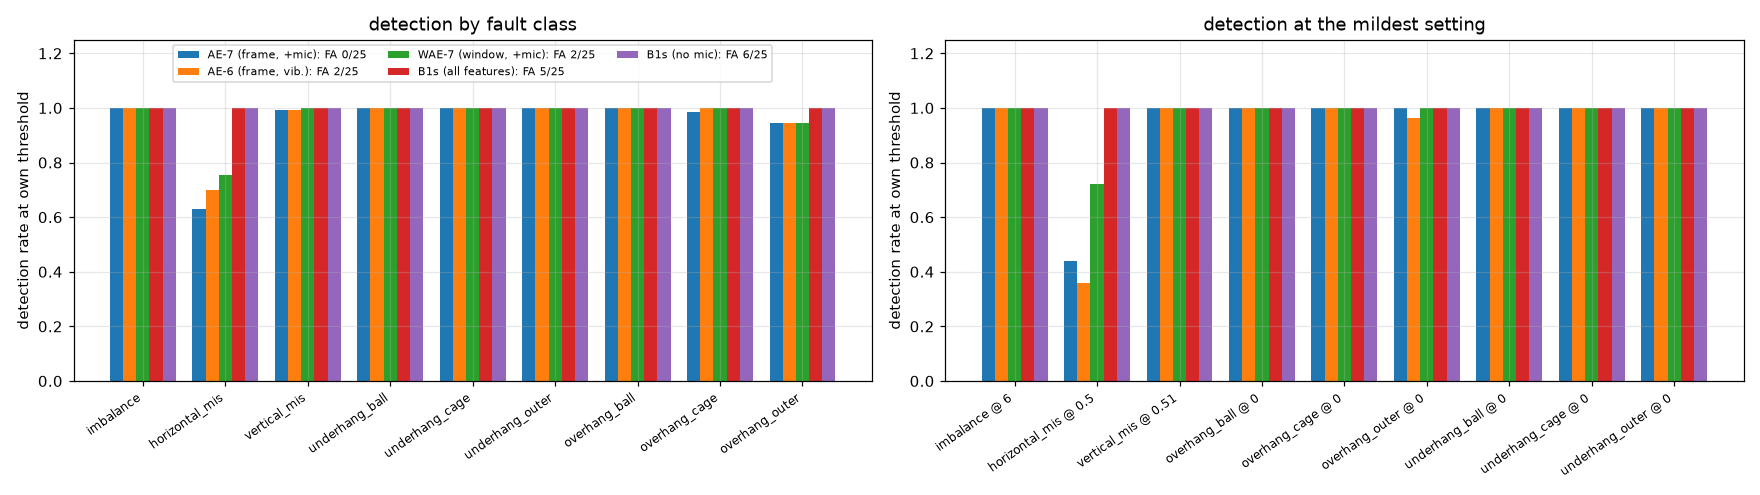
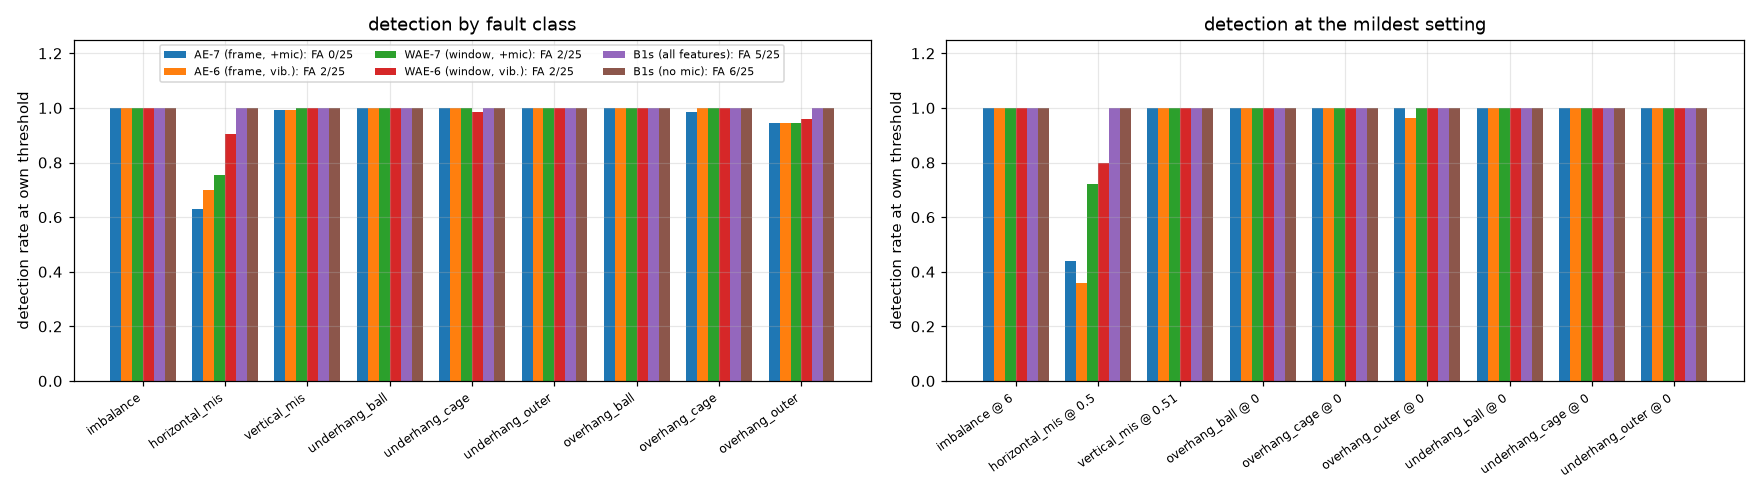
Correct the Stage 3B reporting and declare the Stage 3C protocol
Add WAE-6 to every autoencoder comparison; say 'similar observed separation to B1s;
equivalence is not established'; add the supplementary pooled AE - B1s differences with
paired mixed-unit bootstrap intervals (all include 0); read the sensor-evidence table as a
whole (89 % of fault recordings worst on an overhang channel: not usable as fault-location
evidence); record the app wording and the uninformative B1s/AE-7 alarm combination.
CLAUDE.md §7 declares the Stage 3C protocol, including AE-6 per withheld class and fold
because the saved Q3 assignment splits the normal folder differently per withheld class.

diff --git a/SystemCode/scripts/08_train_ae.py b/SystemCode/scripts/08_train_ae.py
@@ -32,6 +32,7 @@ import pandas as pd
 from sklearn.metrics import roc_auc_score
 
 from ml.config import Config, load_config
+from ml.evaluation import mixed_bootstrap_draws
 from ml.datasets import dev_window_rows, load_representation, norm_stats
 from ml.labels import CLASS10
 from ml.paths import DEFAULT_CONFIG, SYSTEM_CODE_DIR, RunPaths, artifacts_dir, data_dir, results_dir
@@ -230,6 +231,27 @@ def run_compare(cfg: Config, seed: int) -> None:
         t = s[s.role == "test"]
         pooled[name] = float(roc_auc_score((t.class10 != "normal").to_numpy(), t.score.to_numpy()))
     out["pooled_raw_score_auroc_supplementary"] = pooled
+    # Supplementary paired interval for the pooled difference: stratified mixed-unit bootstrap over the fold-k
+    # recordings (fault folders resampled within class, normal recordings individually), identical draws for both.
+    base = scores["b1s_all"]
+    base = base[base.role == "test"].set_index("rec_id").sort_index()
+    draws = mixed_bootstrap_draws(base.class10.to_numpy(), base.folder.to_numpy(), cfg.baselines.n_bootstrap,
+                                  cfg.baselines.seed)
+    y = (base.class10 != "normal").to_numpy()
+    paired = {}
+    for v in [v for v in VARIANTS if v in scores]:
+        b = B1S[v]
+        sa = scores[v][scores[v].role == "test"].set_index("rec_id").score.loc[base.index].to_numpy()
+        sb = scores[b][scores[b].role == "test"].set_index("rec_id").score.loc[base.index].to_numpy()
+        d = np.array([roc_auc_score(y[i], sa[i]) - roc_auc_score(y[i], sb[i]) for i in draws])
+        paired[f"{v}_minus_{b}"] = {"diff": pooled[v] - pooled[b], "ci": [float(np.percentile(d, 2.5)),
+                                                                          float(np.percentile(d, 97.5))],
+                                    "p_positive": float(np.mean(d > 0))}
+    out["pooled_paired_supplementary"] = {
+        "note": "SUPPLEMENTARY: pooled raw scores mix fold models with different score scales; the within-fold "
+                "differences remain primary. Stratified mixed-unit bootstrap (fault folders within class, normal "
+                "recordings individually), identical draws for both detectors.",
+        "n_bootstrap": cfg.baselines.n_bootstrap, "comparisons": paired}
     OUT.mkdir(parents=True, exist_ok=True)
     for v in [v for v in VARIANTS if v in scores]:
         s = scores[v]
@@ -257,6 +279,8 @@ def run_compare(cfg: Config, seed: int) -> None:
     print(pd.DataFrame(rows).set_index("detector").to_string())
     for k, v in out["differences"].items():
         print(f"  {k:22s} per-fold overall AUROC diff {np.round(v['per_fold_auroc_diff']['overall'], 4).tolist()}")
+    for k, v in paired.items():
+        print(f"  pooled (suppl.) {k:22s} {v['diff']:+.4f} [{v['ci'][0]:+.4f}, {v['ci'][1]:+.4f}] P(>0) {v['p_positive']:.2f}")
 
 
 def main() -> int:

diff --git a/CLAUDE.md b/CLAUDE.md
@@ -130,6 +130,11 @@ Graders run the app on a Linux or Windows CPU.
   - Channel groups: bearing faults and misalignment respond most on the opposite-named accelerometer group. This is an
     unresolved observation; channel names do not change.
 - **Preprocessing decisions (26 Sep 2026):**
+    Stage 3B autoencoder reading: nearly every fault class, including the overhang faults, is reconstructed worst on an
+    overhang channel. This weakens a simple swapped-channel explanation; it does not establish a mounting or sensor-type
+    explanation. Per-channel reconstruction error is not usable as fault-location evidence.
+  - **App wording:** the app shows "predicted fault location according to the dataset labels"; the classifier does not
+    independently verify the physical sensor mapping.
   - **Primary envelope band: 1–5 kHz for every track**, fixed from the sensor specifications (inside both sensors'
     rated ranges). The per-track bands in `results/demod_bands.json` are a separately reported comparison only.
   - **Order axis: per-window speed** from `ml.preprocess.window_speeds`, computed from the untouched tachometer,
@@ -268,12 +273,14 @@ into `ml/`, the scripts and the app.
 - Figures: matplotlib, labelled axes with units, saved to `results/figures/` when they are report material.
 - Strip outputs on commit (`nbstripout`). Before the final ZIP, run all notebooks and export them to HTML.
 
-## 7. Current stage: Stage 3B — CNN seed replication and the healthy-only autoencoder (Q1) on cache C
+## 7. Current stage: Stage 3C — deep unknown-fault test (Q3): LOCO-retrained CNN-6 and the three-way decision rule
 
-Dev pool and `results/dev_folds.csv` only; reserved tests sealed; the training process never imports LightGBM; all
-Mac/MPS, precision and one-GPU-job rules of §2 apply. Not in this stage: LOCO, arbitrator, ResNet, late fusion.
+Dev pool only; reserved tests sealed; the training process never imports LightGBM; all Mac/MPS, precision, path-scheme
+(variant / seed / fold / withheld class in every path) and one-GPU-job rules apply. Stage 3A/3B embeddings and scores are
+Q2-only and are NOT used here. Not in this stage: ResNet, late fusion, a learned meta-combiner (deferred), Q1 rule
+combination.
 
-**Standing scope rules (from Stage 3A):**
+**Standing scope rules (Stages 3A/3B):**
 - **Q2 only for the CNNs.** They are trained on all ten classes; their embeddings and scores are for Q2 analysis ONLY and
   are tagged "Q2-only; trained on all 10 classes; not valid for LOCO". LOCO experiments (Stage 3C) must retrain the
   encoder without the withheld fault class and exclude that class from normalisation, calibration and threshold
@@ -292,13 +299,44 @@ Mac/MPS, precision and one-GPU-job rules of §2 apply. Not in this stage: LOCO, 
   0.5 s, so upload-to-result time is longer.
 - **Artifact paths.** Every existing seed-42 artifact of Stage 3A stays unchanged at its original path. From Stage 3B on,
   every score, embedding, weight, normalisation-stat and result path, and every MLflow run name and tag, carries the
-  variant, the seed and (where applicable) the fold (`ml.paths.RunPaths`).
+  variant, the seed and (where applicable) the fold and the withheld class (`ml.paths.RunPaths`).
+- **Q1 alarm combination (deferred):** an alarm-level combination of B1s and AE-7 is uninformative on these recordings
+  (B1s flags every fault; AE-7 flags no healthy recording, so OR reproduces B1s and AND reproduces AE-7). Deferred until
+  more healthy data exist.
 
-0. Housekeeping (shared recording aggregation in `scripts/05_baselines.py`; these notes; the path scheme and its test).
-1. Seed replication of CNN-7 and CNN-6 (seeds 43, 44; same settings and folds).
-2. B1s recording-level scores reproduced from the saved Stage 2D.1 fit/calibration assignments.
-3. Healthy-only autoencoder (`ml/models/ae.py`), corrected Q1 protocol, AE-7 vs AE-6, compared with B1s within fold.
-4. Notebook `08_autoencoder_healthy`.
+**Stage 3C protocol (declared before running).**
+- **Split:** the SAVED Stage 2D.1 Q3 assignment (`results/q1q3/q3_fit_cal_eval_assignment.csv`): per withheld class c and
+  outer fold k, the known-class recordings of folds ≠ k are split within each folder 4:1:1 into fit / calibration /
+  seen-folder evaluation. Fold k (known classes and class c) is evaluated once per c.
+- **CNN-6 per (c, k):** the Stage 3A architecture and fixed settings, seed 42, 9 outputs (the known classes), trained on
+  the fit recordings only. `norm_stats` in development mode: fit_ids = those fit recordings; context excludes calibration,
+  seen-folder evaluation, fold k and every class-c recording.
+- **AE-6 per (c, k), not per k (deviation from the brief, reason):** the saved Q3 assignment splits the normal folder
+  differently for each withheld class, so one AE per k would have been trained on normals that are calibration or
+  seen-folder evaluation recordings in other runs. Each (c, k) run therefore retrains the frame-level AE-6 on ITS fit
+  normals only; its threshold uses ITS calibration normals.
+- **Scores (directions fixed):** MSP of the aggregated class probabilities (lower = more unknown); Mahalanobis distance in
+  the embedding (class centroids from fit windows; ONE shared Ledoit–Wolf covariance of fit-window embeddings minus their
+  own class centroid; per window the minimum distance over known classes; recording = mean over its 9 windows; higher =
+  more unknown); k-NN distance (cosine distance from a window to its 10th nearest fit-window embedding; recording = mean
+  over its 9 windows; higher = more unknown); AE reconstruction error (higher = more anomalous). AE error measures
+  departure from healthy behaviour, not unfamiliarity among fault types; a familiar severe fault can have a larger error
+  than an unfamiliar mild one.
+- **Three-way rule thresholds (calibration recordings only):** τ_p (MSP) and τ_d (Mahalanobis) are calibration targets
+  of 97.5 % marginal acceptance each on the calibration known recordings (order statistic r = ceil(0.975 (n + 1)); accept
+  iff MSP ≥ τ_p, resp. d ≤ τ_d; ties accepted); the joint acceptance is measured, not assumed. τ_e = the maximum
+  calibration-normal AE error (healthy iff error ≤ τ_e).
+- **Orderings:** PRIMARY = classifier-first (the AE misses some mild faults, and AE-first would declare them healthy);
+  AE-first is a comparison only; no choosing the best ordering afterwards. Never fall back to the second-highest class.
+- **Classical comparison:** logistic regression / MSP of Stage 2D.1 on the same split and recordings, reproduced per
+  recording (its per-fold results must match `results/q1q3/q3_per_fold.csv`). Observed differences only; no winner
+  claims without paired intervals.
+
+0. Stage 3B reporting corrections (WAE-6 in every table, wording, pooled paired interval, sensor-evidence reading, app
+   wording, Q1 combination note).
+1. Deep LOCO: 27 CNN-6 and 27 AE-6 trainings; scores; AUROC/OSCR per class, fold spread, macro.
+2. Three-way decision rule: joint acceptance, outcome tables (both orderings), AE override counts, classical comparison.
+3. Notebook `09_openset_loco`.
 
 ## 7b. Plan notes (planned controls)
 

diff --git a/SystemCode/results/audit_report.md b/SystemCode/results/audit_report.md
@@ -443,6 +443,38 @@ rate by 4 points. About 0.85 acceptance is a theoretical reference under exchang
 leading detector (B1s) was 0.80 (5/25 false alarms), and 0.72–0.88 across detectors. Q3 calibration sets hold 71–83 recordings (attainable acceptance 0.950–0.962). Folders are proxies for sessions.
 These are classical development baselines, not final results.
 
+### Deep models on cache C: Q2 CNNs and the Q1 autoencoders (Stages 3A/3B, 27 Sep 2026)
+Development findings on the 804-recording pool (K = 3 folder-grouped folds); not reserved-test results.
+
+**Q2 (scratch CNN, early fusion; Q2-only outputs).** Class10 macro-F1 over three training seeds (42, 43, 44): CNN-7
+(vibration + microphone) 0.982 ± 0.003, CNN-6 (vibration only) 0.989 ± 0.006; logistic regression 0.949. Both CNNs exceed
+logistic regression on class10 for every seed (paired intervals exclude 0); on class6 mostly not. CNN-7 − CNN-6 is
+negative for every seed on class10 (−0.009, −0.003, −0.008), with an interval excluding 0 only for seed 42: the
+microphone does not help the early-fusion CNN here; that it hurts is not supported. Seed spread and bootstrap intervals
+are different sources of uncertainty and are reported separately. Late fusion remains on the roadmap.
+
+**Q1 (healthy-only autoencoders).** The autoencoders show similar observed separation to B1s; equivalence is not
+established. Per-fold AUROC (fold mean ± std): AE-7 0.990 ± 0.006, AE-6 0.991 ± 0.006, WAE-7 0.990 ± 0.009, WAE-6
+0.989 ± 0.010, B1s 0.990 ± 0.013; within-fold differences change sign (primary); supplementary pooled differences with
+paired mixed-unit intervals all include 0 (AE-7 − B1s +0.012 [−0.009, +0.051]). At each detector's own threshold:
+
+| Detector | False alarms / 25 | Detection | Horizontal 0.5 mm |
+| --- | --- | --- | --- |
+| AE-7 (frame, + mic) | 0 | 0.958 | 0.44 |
+| AE-6 (frame, vibration) | 2 | 0.965 | 0.36 |
+| WAE-7 (window, + mic) | 2 | 0.972 | 0.72 |
+| WAE-6 (window, vibration) | 2 | 0.986 | 0.80 |
+| B1s (all features) | 5 | 1.000 | 1.00 |
+
+With 25 healthy recordings from one folder these false-alarm counts do not rank the detectors reliably. An alarm-level
+combination of B1s and AE-7 is uninformative on these recordings (B1s flags every fault; AE-7 flags no healthy
+recording, so OR reproduces B1s and AND reproduces AE-7); deferred until more healthy data exist.
+
+**Sensor anomaly evidence.** Nearly every fault class, including the overhang faults, is reconstructed worst on an
+overhang channel (AE-7: 89 % of fault recordings; 59 % for overhang outer race up to 100 % for underhang ball and outer
+race). This weakens a simple swapped-channel explanation; it does not establish a mounting or sensor-type explanation.
+Per-channel reconstruction error is not usable as fault-location evidence.
+
 ## 10. Open items and unresolved observations
 Decided (26 Sep 2026, Bhuvesh):
 - **Order axis: per-window speed** from `ml.preprocess.window_speeds` on the untouched tachometer, falling back to the
